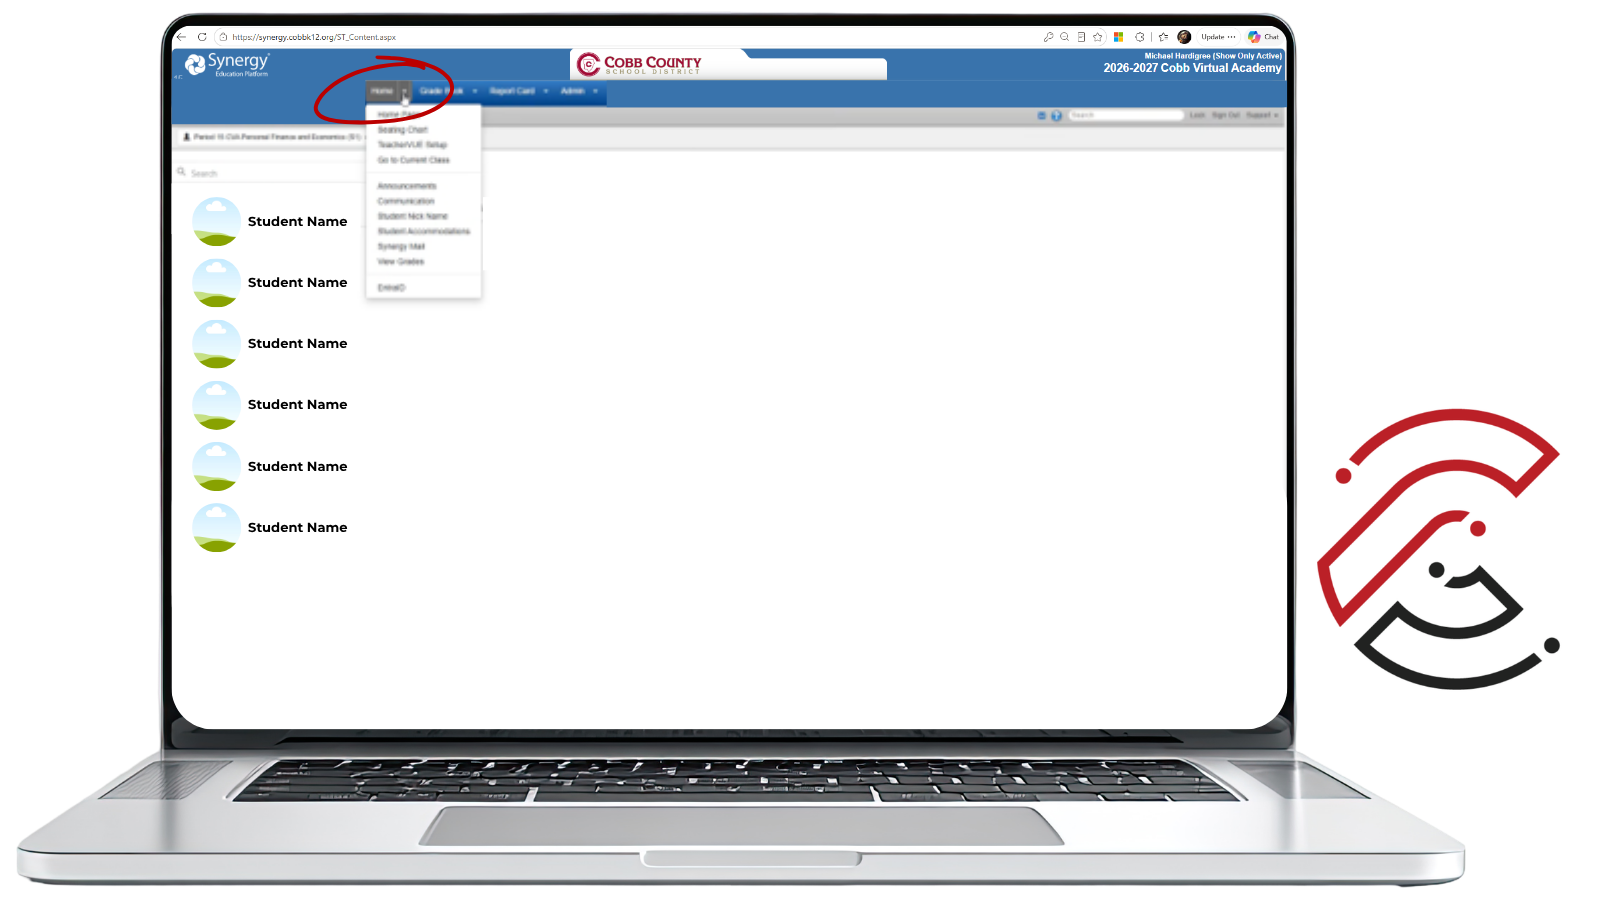
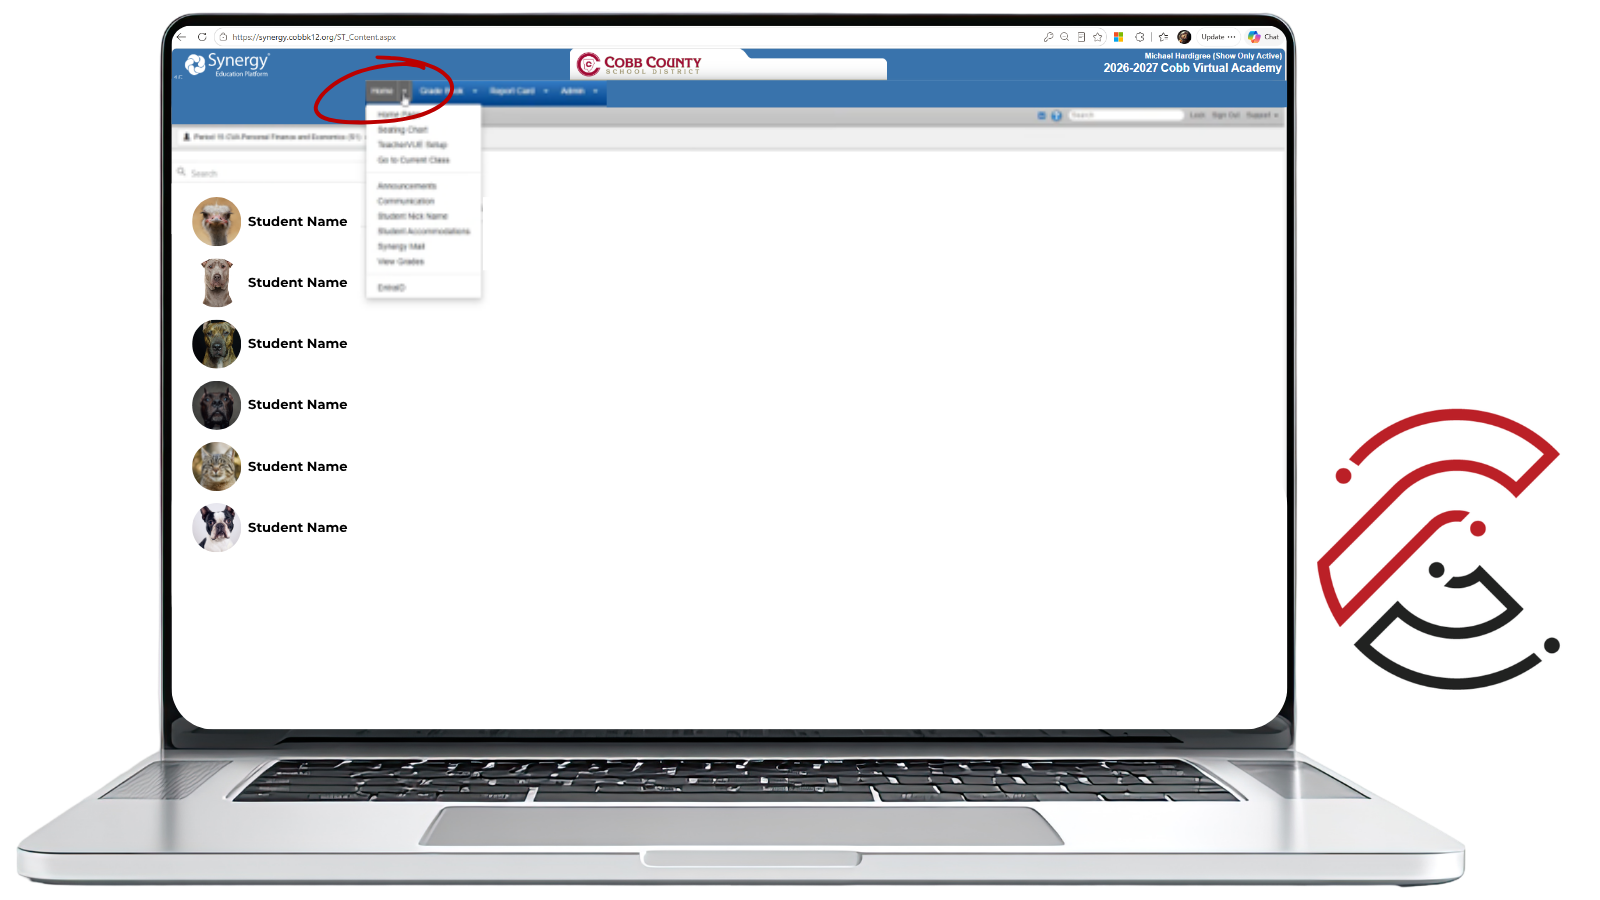
Enhance accommodations section with image links for better accessibility and user experience

Changed region(s): [[0.0938, 0.2178, 0.1562, 0.6222]]

diff --git a/proactive-intervention-and-student-support/accommodations-and-accessibility.html b/proactive-intervention-and-student-support/accommodations-and-accessibility.html
@@ -128,17 +128,35 @@
   }
 
   .cva-step-image {
-    flex: 0 1 320px;
-    min-width: 240px;
+    flex: 1 1 100%;
+    min-width: 0;
+    text-align: center;
+  }
+
+  .cva-step-image a {
+    display: inline-block;
+    text-decoration: none;
   }
 
   .cva-step-image img {
     width: 100%;
+    max-width: 640px;
     height: auto;
     display: block;
-    border: 1px dashed #b9bec6;
+    margin: 0 auto;
+    border: none;
     border-radius: 10px;
-    background: #f7f8fa;
+    background: transparent;
+  }
+
+  .cva-enlarge-note {
+    display: block;
+    margin-top: 8px;
+    font-size: 12px;
+    line-height: 1.4;
+    color: #666666;
+    font-weight: 700;
+    text-align: center;
   }
 
   /* ── Details / accordion for tools ── */
@@ -335,7 +353,8 @@
           <p style="font-size: 15px; line-height: 1.6; margin: 0; color: #333333;">Once signed in to your <strong>Synergy Seating Chart</strong>, reference the email sent to you separately (each term) about which students are currently served through a 504 plan.</p>
         </div>
         <div class="cva-step-image">
-          <img src="images/504-step-1.png" alt="Synergy Seating Chart showing student tiles; select a student's picture to view additional student options.">
+          <a href="images/504-step-1.png" target="_blank" rel="noopener noreferrer" aria-label="Open image in a new tab to enlarge"><img src="images/504-step-1.png" alt="Synergy Seating Chart showing student tiles; select a student's picture to view additional student options."></a>
+          <span class="cva-enlarge-note">Click image to enlarge</span>
         </div>
       </div>
 
@@ -346,7 +365,8 @@
           <p style="font-size: 15px; line-height: 1.6; margin: 0; color: #333333;">Once you have identified a specific student with a 504 plan, click on that strong <strong>student’s picture</strong> and select <strong>504 Plan</strong> from the the pop-up menu. The student’s 504 Plan of Accommodations will then open up as a PDF.</p>
         </div>
         <div class="cva-step-image">
-          <img src="images/504-step-2.png" alt="Synergy Seating Chart with a student menu open and the 504 Plan option circled in red.">
+          <a href="images/504-step-2.png" target="_blank" rel="noopener noreferrer" aria-label="Open image in a new tab to enlarge"><img src="images/504-step-2.png" alt="Synergy Seating Chart with a student menu open and the 504 Plan option circled in red."></a>
+          <span class="cva-enlarge-note">Click image to enlarge</span>
         </div>
       </div>
 
@@ -377,7 +397,8 @@
           <p style="font-size: 15px; line-height: 1.6; margin: 0; color: #333333;">Once signed in to your Synergy Gradebook, hover your cursor over the <strong>Home</strong> tab at the top.</p>
         </div>
         <div class="cva-step-image">
-          <img src="images/iep-step-1.png" alt="Synergy Gradebook with the Home menu open and the Home tab circled in red.">
+          <a href="images/iep-step-1.png" target="_blank" rel="noopener noreferrer" aria-label="Open image in a new tab to enlarge"><img src="images/iep-step-1.png" alt="Synergy Gradebook with the Home menu open and the Home tab circled in red."></a>
+          <span class="cva-enlarge-note">Click image to enlarge</span>
         </div>
       </div>
 
@@ -388,7 +409,8 @@
           <p style="font-size: 15px; line-height: 1.6; margin: 0; color: #333333;">From the menu that drops down, select <strong>Student Accommodations</strong>. All students who are served through Special Education will appear in a list on the left-hand side of the screen.</p>
         </div>
         <div class="cva-step-image">
-          <img src="images/iep-step-2.png" alt="Synergy Gradebook Home menu with Student Accommodations circled in red.">
+          <a href="images/iep-step-2.png" target="_blank" rel="noopener noreferrer" aria-label="Open image in a new tab to enlarge"><img src="images/iep-step-2.png" alt="Synergy Gradebook Home menu with Student Accommodations circled in red."></a>
+          <span class="cva-enlarge-note">Click image to enlarge</span>
         </div>
       </div>
 
@@ -399,7 +421,8 @@
           <p style="font-size: 15px; line-height: 1.6; margin: 0; color: #333333;">To access each student’s specific accommodations, simply click on a <strong>student’s picture</strong> and the list of accommodations from that student’s last finalized IEP will appear.</p>
         </div>
         <div class="cva-step-image">
-          <img src="images/iep-step-3.png" alt="Synergy Student Accommodations screen showing a selected student and a list of accommodations from the student's IEP.">
+          <a href="images/iep-step-3.png" target="_blank" rel="noopener noreferrer" aria-label="Open image in a new tab to enlarge"><img src="images/iep-step-3.png" alt="Synergy Student Accommodations screen showing a selected student and a list of accommodations from the student's IEP."></a>
+          <span class="cva-enlarge-note">Click image to enlarge</span>
         </div>
       </div>
 
